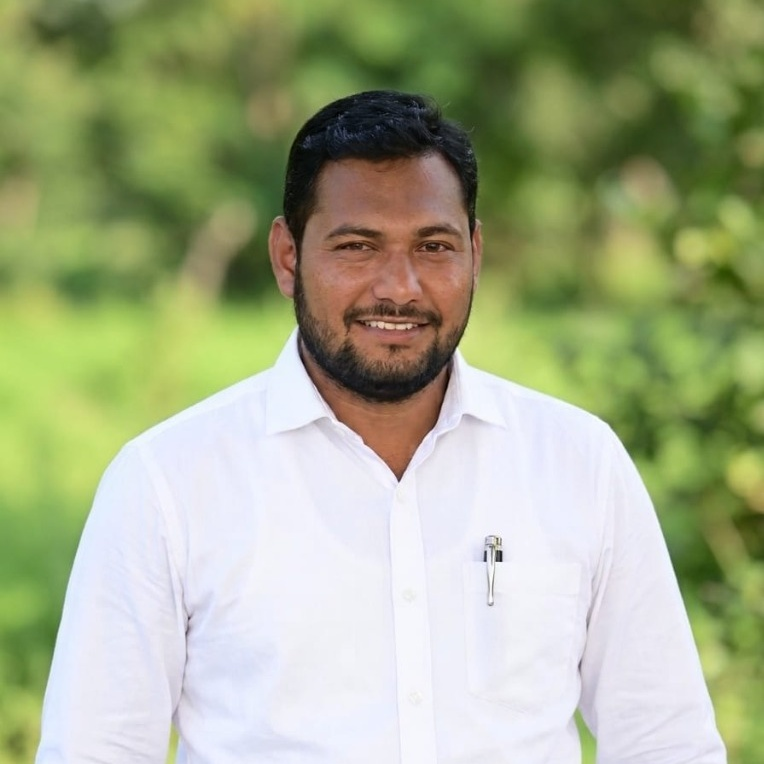
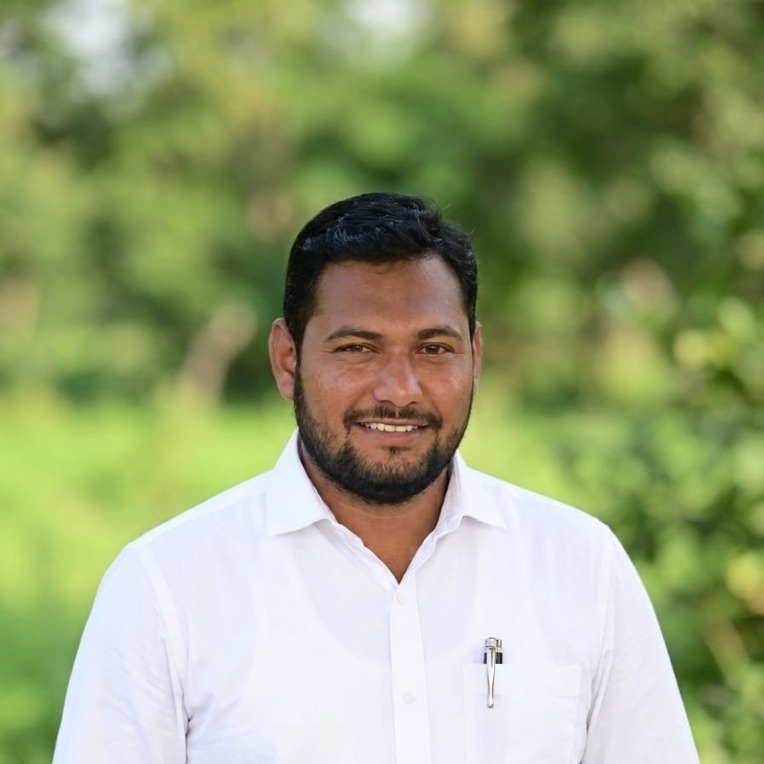
Replace Chairman portrait with newly given photo using cache-busted unique filename across all pages

diff --git a/our-team.html b/our-team.html
@@ -211,7 +211,7 @@
                                 <!-- Portrait with Tricolor Gradient Ring (Significantly Increased Size) -->
                                 <div class="relative w-32 h-32 sm:w-36 sm:h-36 lg:w-44 lg:h-44 rounded-full p-[4px] bg-gradient-to-tr from-[#C3A46A] via-[#8BAF52] to-[#123D2B] shadow-xl shrink-0 transition-transform duration-500 group-hover:scale-105">
                                     <div class="w-full h-full rounded-full overflow-hidden p-[3px] bg-white">
-                                        <img src="assets/images/director-durgesh-chaudhari.jpg" alt="Durgesh Chaudhari - Chairman, Girna Global" class="w-full h-full object-cover object-top rounded-full">
+                                        <img src="assets/images/chairman-durgesh-chaudhari-new.jpg?v=20261123-white-shirt" alt="Durgesh Chaudhari - Chairman, Girna Global" class="w-full h-full object-cover rounded-full">
                                     </div>
                                     <div class="absolute bottom-1 right-1 sm:bottom-2 sm:right-2 w-8 h-8 sm:w-9 sm:h-9 rounded-full bg-white flex items-center justify-center shadow-md border border-[#C3A46A]/40 text-botanical">
                                         <span class="material-symbols-outlined text-[18px] sm:text-[20px]">verified</span>
@@ -407,7 +407,7 @@
                         <div class="group relative flex flex-col items-center text-center p-6 rounded-2xl bg-white border border-[#C3A46A]/30 shadow-[0_4px_16px_rgba(18,61,43,0.04)] hover:shadow-[0_12px_28px_rgba(18,61,43,0.1)] hover:-translate-y-1 transition-all duration-300">
                             <div class="relative w-28 h-28 sm:w-32 sm:h-32 rounded-full p-[3px] bg-gradient-to-tr from-[#C3A46A] via-[#8BAF52] to-[#123D2B] mt-2 mb-4 shadow-sm transition-transform duration-300 group-hover:scale-105">
                                 <div class="w-full h-full rounded-full overflow-hidden p-[2px] bg-white">
-                                    <img src="assets/images/director-durgesh-chaudhari.jpg" alt="Durgesh Chaudhari - Chairman &amp; Director" class="w-full h-full object-cover object-top rounded-full">
+                                    <img src="assets/images/chairman-durgesh-chaudhari-new.jpg?v=20261123-white-shirt" alt="Durgesh Chaudhari - Chairman &amp; Director" class="w-full h-full object-cover rounded-full">
                                 </div>
                                 <div class="absolute bottom-1 right-1 w-5 h-5 rounded-full bg-white flex items-center justify-center shadow-xs border border-[#C3A46A]/40">
                                     <span class="material-symbols-outlined text-[12px] text-botanical">check_circle</span>

diff --git a/index.html b/index.html
@@ -319,7 +319,7 @@
 
                             <!-- Executive Leadership Attribution Card -->
                             <div class="p-4 rounded-xl bg-white border border-[#C3A46A]/30 flex items-center gap-4 shadow-xs mt-2">
-                                <img src="assets/images/director-durgesh-chaudhari.jpg" alt="Durgesh Chaudhari - Chairman, Girna Global" class="w-12 h-12 rounded-full object-cover shrink-0 border-2 border-[#C3A46A]/40 shadow-xs">
+                                <img src="assets/images/chairman-durgesh-chaudhari-new.jpg?v=20261123-white-shirt" alt="Durgesh Chaudhari - Chairman, Girna Global" class="w-12 h-12 rounded-full object-cover shrink-0 border-2 border-[#C3A46A]/40 shadow-xs">
                                 <div class="flex flex-col min-w-0">
                                     <span class="font-manrope font-bold text-sm text-forest-deep">Durgesh Chaudhari</span>
                                     <span class="font-inter text-xs text-botanical font-bold uppercase tracking-wider">Chairman, Girna Global</span>

diff --git a/preview.html b/preview.html
@@ -354,7 +354,7 @@
 
                             <!-- Executive Leadership Attribution Card -->
                             <div class="p-4 rounded-xl bg-white border border-[#C3A46A]/30 flex items-center gap-4 shadow-xs mt-2">
-                                <img src="assets/images/director-durgesh-chaudhari.jpg" alt="Durgesh Chaudhari - Chairman, Girna Global" class="w-12 h-12 rounded-full object-cover shrink-0 border-2 border-[#C3A46A]/40 shadow-xs">
+                                <img src="assets/images/chairman-durgesh-chaudhari-new.jpg?v=20261123-white-shirt" alt="Durgesh Chaudhari - Chairman, Girna Global" class="w-12 h-12 rounded-full object-cover shrink-0 border-2 border-[#C3A46A]/40 shadow-xs">
                                 <div class="flex flex-col min-w-0">
                                     <span class="font-manrope font-bold text-sm text-forest-deep">Durgesh Chaudhari</span>
                                     <span class="font-inter text-xs text-botanical font-bold uppercase tracking-wider">Chairman, Girna Global</span>
